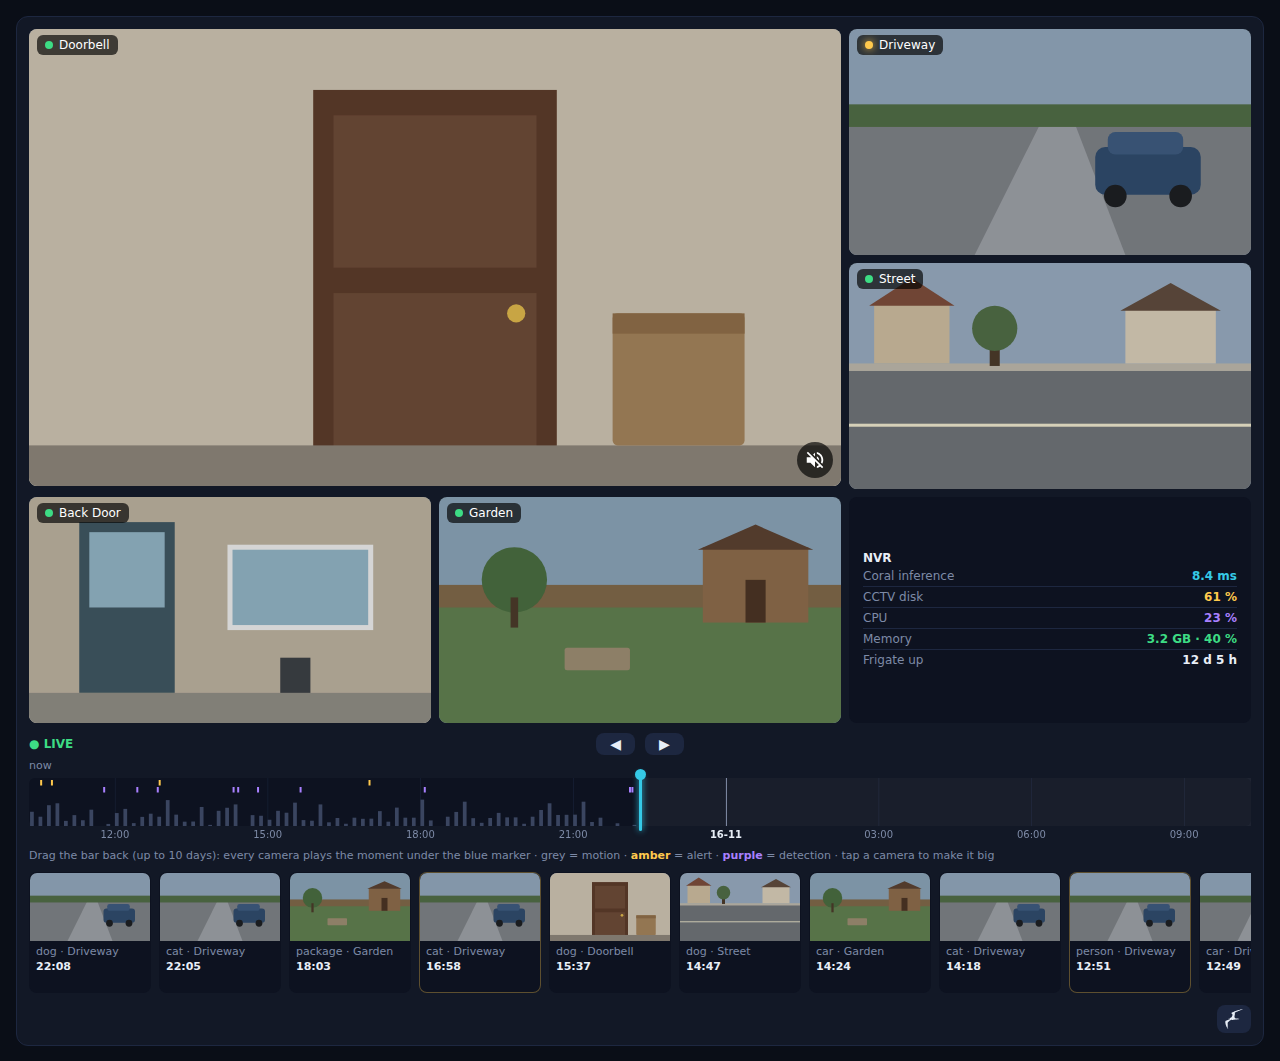
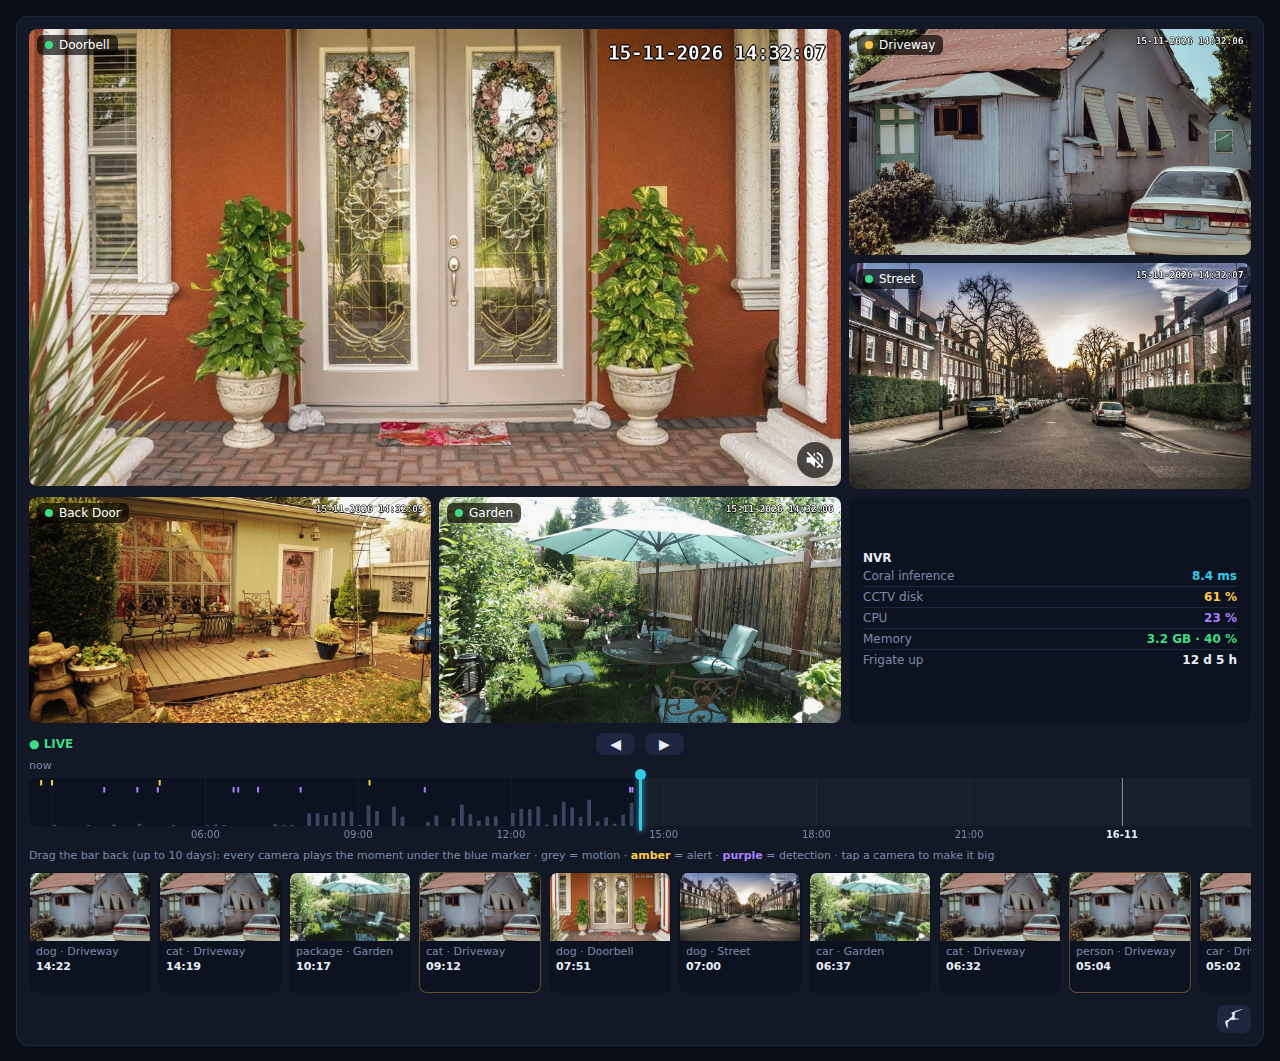
Screenshots: stock photos instead of drawn placeholders

diff --git a/README.md b/README.md
@@ -8,7 +8,7 @@ same moment** from its Frigate recording.
 |---|---|
 | <img src="images/desktop.png" width="560" alt="Desktop: big doorbell tile, four smaller tiles, an NVR panel, the timeline and an events strip"> | <img src="images/mobile.png" width="260" alt="Phone: doorbell full width, four small tiles two per row, the timeline and an events strip"> |
 
-*(Mock-up: the real card with drawn placeholder cameras and made-up events.)*
+*(Mock-up: the real card with stock photos in place of the cameras, and made-up events. Photo credits at the bottom.)*
 
 ## What it does
 
@@ -102,6 +102,15 @@ Use two copies of the card in the same view, each with a screen-width `visibilit
 - Timeline motion is loaded in 6-hour blocks. Past blocks are cached, and the current block refreshes
   every 5 minutes.
 - Every dashboard save or resource change reloads open dashboards. That's Home Assistant, not the card.
+
+## Photo credits
+
+The screenshots use public-domain (CC0) photos, cropped and given a camera clock:
+[front door](https://www.rawpixel.com/image/6038157/photo-image-public-domain-trees-wood),
+[driveway](https://www.rawpixel.com/image/3290508/free-photo-image-outdoor-house-background-automobile-building) and
+[street](https://www.rawpixel.com/image/3301349/free-photo-image-car-city-road-asphalt) from rawpixel;
+[back deck](https://www.flickr.com/photos/71401718@N00/11283075513) and
+[garden](https://www.flickr.com/photos/71401718@N00/9181680406) by Wonderlane on Flickr.
 
 ## License
 
